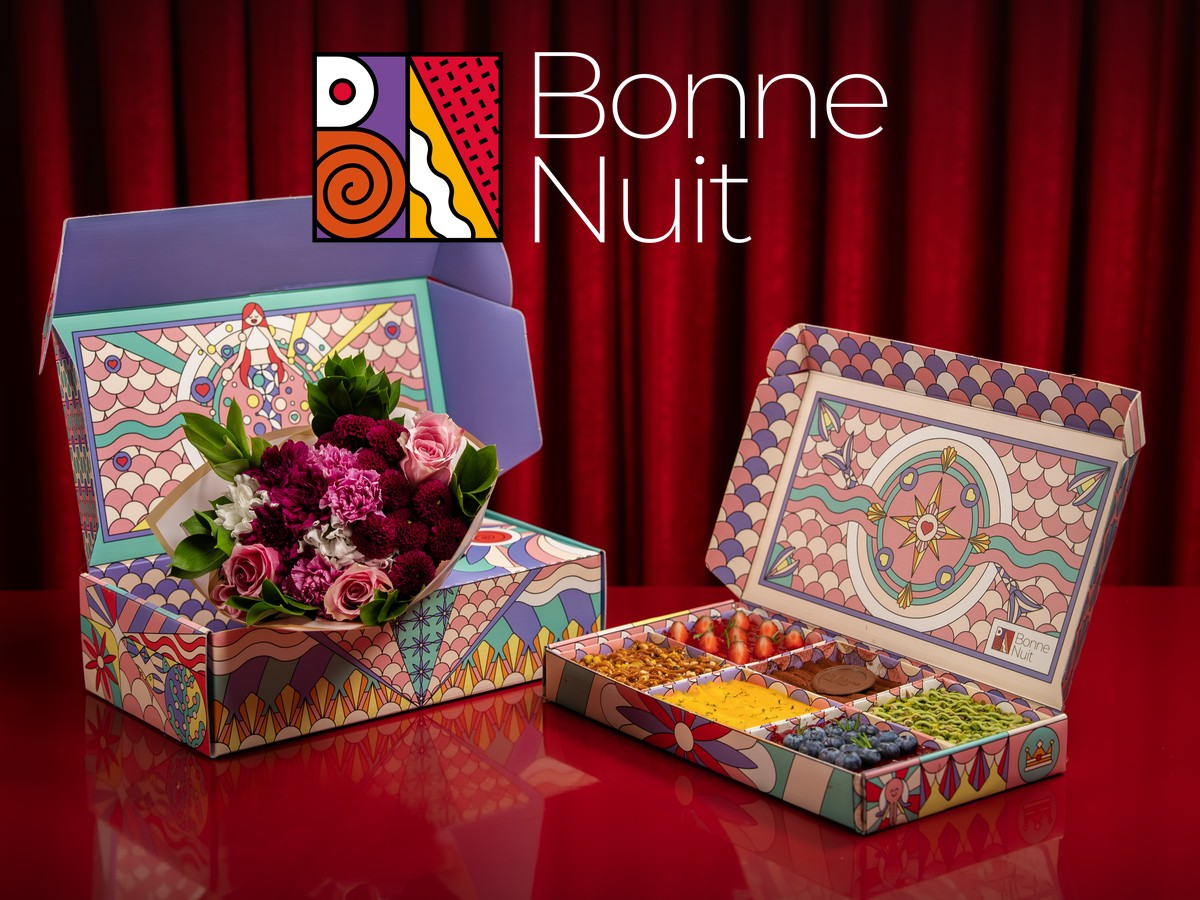
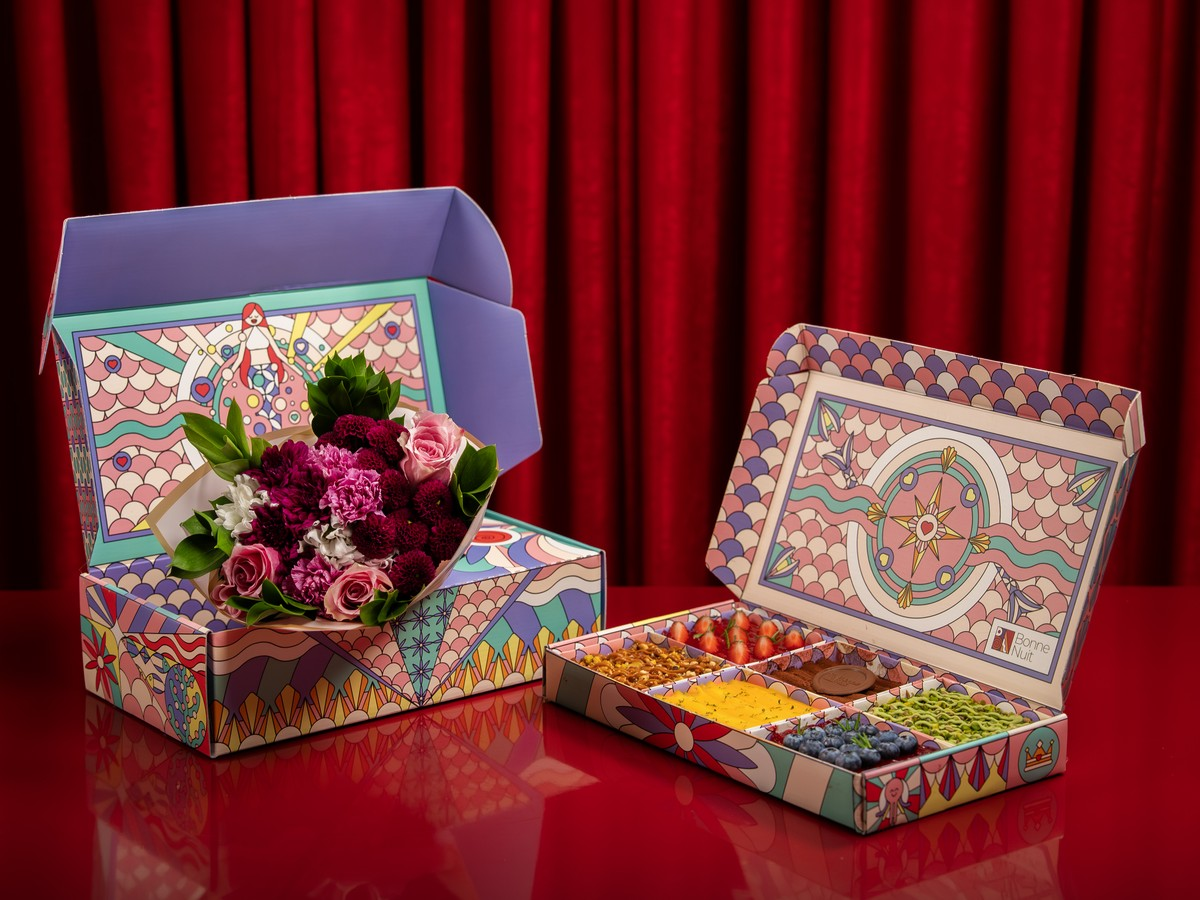
Fix BonneNuit card to match plain-photo style, label coffee shots as Benesso Coffee
- BonneNuit work-card image no longer has the logo baked in; it's now
  a plain product photo like every other card, with branding shown
  only via the standard hover overlay (consistent with the rest of
  the grid)
- Product Shoots coffee photos were generically labeled "Kahve
  Markası" but are actually Benesso Coffee's product photography

Changed region(s): [[0.0, 0.0, 0.9867, 0.28]]

diff --git a/index.html b/index.html
@@ -295,20 +295,20 @@
         </div>
         <div class="work-card work-card--extra" data-category="product">
           <div class="work-card__img">
-            <img src="images/products/kahve-colombia-paketi.jpg" alt="Kahve paketi ürün çekimi" loading="lazy">
-            <div class="work-card__overlay"></div><div class="work-card__info"><span>Ürün Fotoğrafçılığı</span><h4>Kahve Markası</h4></div>
+            <img src="images/products/kahve-colombia-paketi.jpg" alt="Benesso Coffee ürün çekimi" loading="lazy">
+            <div class="work-card__overlay"></div><div class="work-card__info"><span>Ürün Fotoğrafçılığı</span><h4>Benesso Coffee</h4></div>
           </div>
         </div>
         <div class="work-card work-card--extra" data-category="product">
           <div class="work-card__img">
-            <img src="images/products/kahve-tadim-seti.jpg" alt="Kahve tadım seti ürün çekimi" loading="lazy">
-            <div class="work-card__overlay"></div><div class="work-card__info"><span>Ürün Fotoğrafçılığı</span><h4>Kahve Markası</h4></div>
+            <img src="images/products/kahve-tadim-seti.jpg" alt="Benesso Coffee tadım seti ürün çekimi" loading="lazy">
+            <div class="work-card__overlay"></div><div class="work-card__info"><span>Ürün Fotoğrafçılığı</span><h4>Benesso Coffee</h4></div>
           </div>
         </div>
         <div class="work-card work-card--extra" data-category="product">
           <div class="work-card__img">
-            <img src="images/products/kahve-pour-over.jpg" alt="Kahve demleme çekimi" loading="lazy">
-            <div class="work-card__overlay"></div><div class="work-card__info"><span>Ürün Fotoğrafçılığı</span><h4>Kahve Markası</h4></div>
+            <img src="images/products/kahve-pour-over.jpg" alt="Benesso Coffee demleme çekimi" loading="lazy">
+            <div class="work-card__overlay"></div><div class="work-card__info"><span>Ürün Fotoğrafçılığı</span><h4>Benesso Coffee</h4></div>
           </div>
         </div>
         <div class="work-card work-card--extra" data-category="product">
